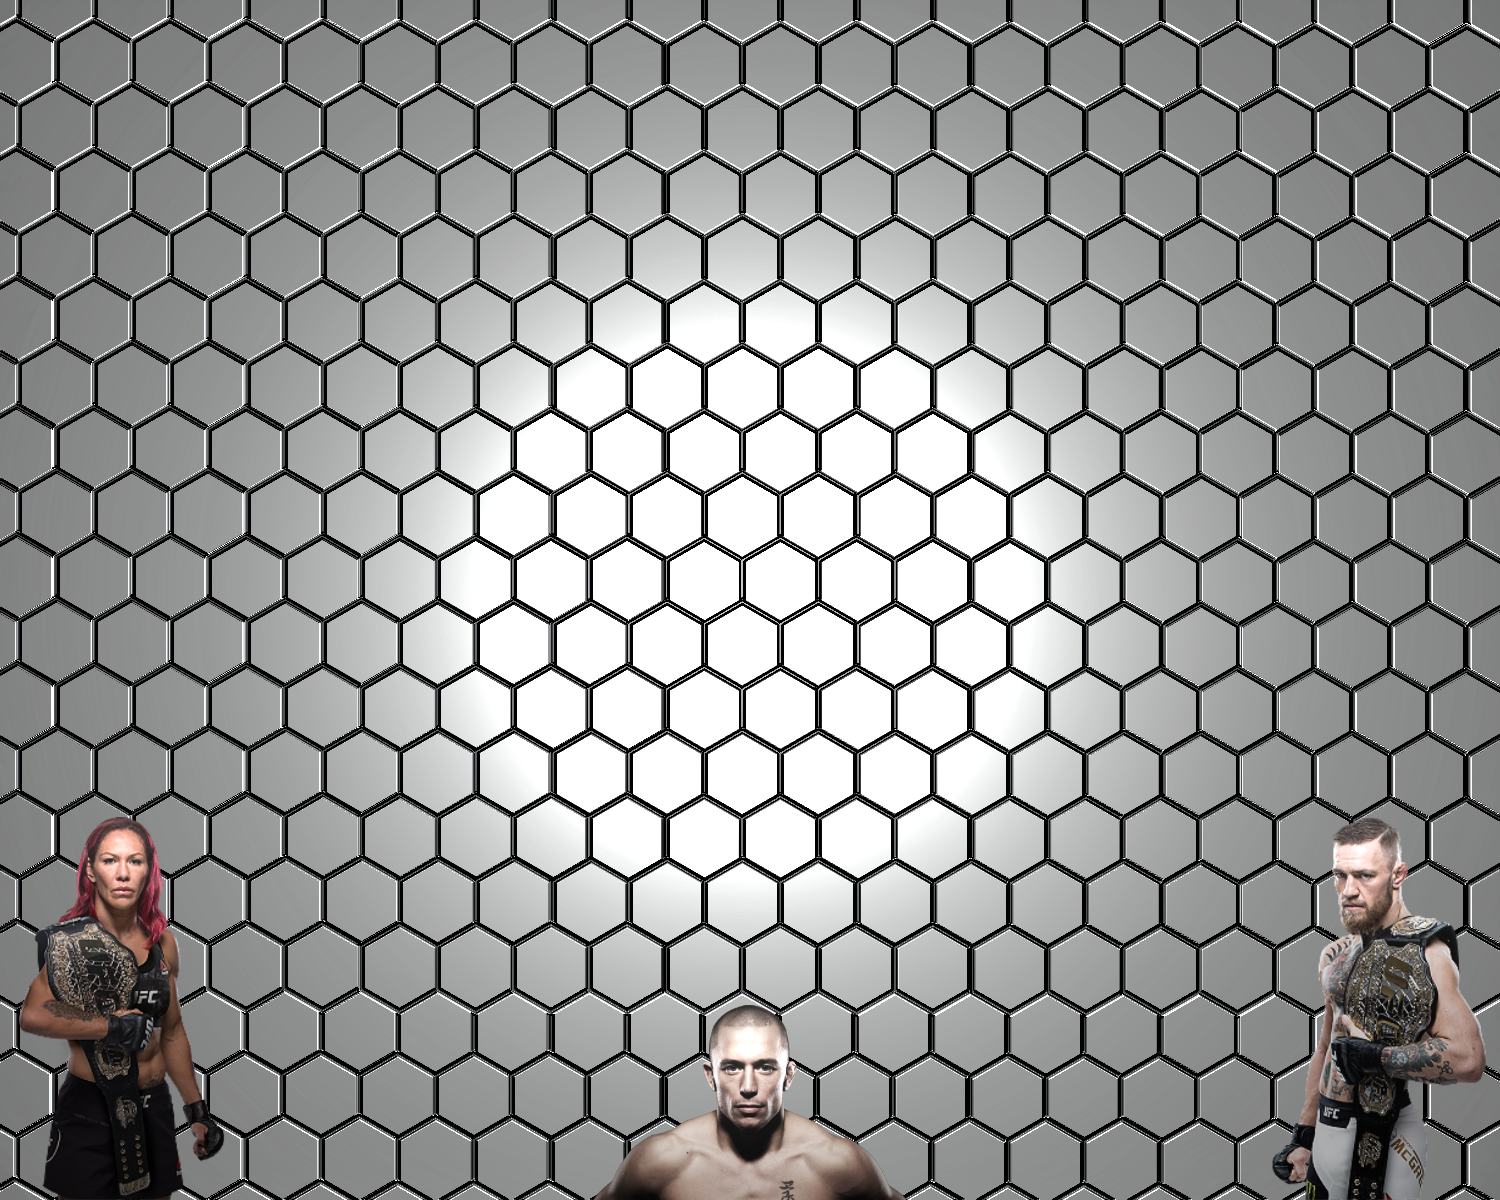
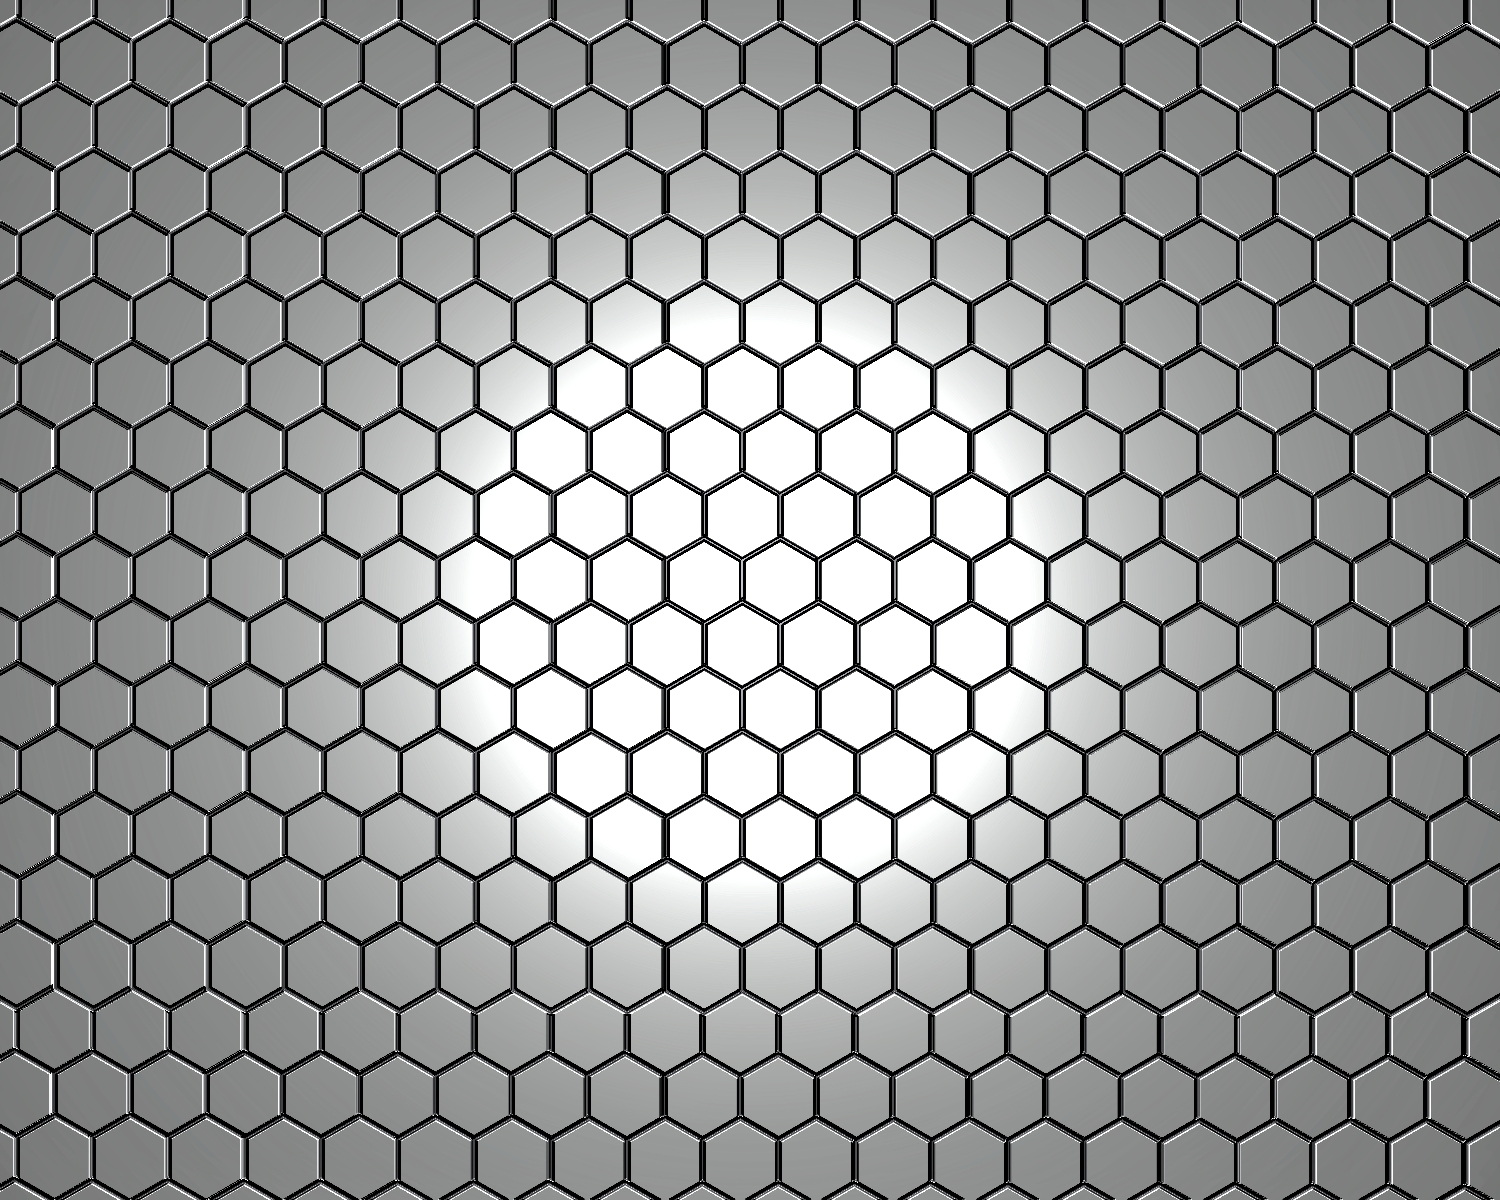
Changed UI on main page

Changed region(s): [[0.0, 0.6783, 0.1533, 1.0], [0.828, 0.6783, 1.0, 1.0], [0.3987, 0.8325, 0.6133, 1.0]]

diff --git a/src/containers/Home/Home.js b/src/containers/Home/Home.js
@@ -2,6 +2,8 @@ import React, { Component } from 'react';
 import { Button } from 'semantic-ui-react';
 import classes from './Home.scss';
 
+import logo from '../../assets/imgs/mcgregor-cutout.png';
+
 import GameMode from '../../components/GameMode/GameMode'
 import AuxComponent from '../../hocs/AuxComponent';
 
@@ -11,9 +13,15 @@ class Home extends Component {
             <AuxComponent>
                 <div className={classes.Home}>
                     <h1>Select Game Mode</h1>
-                    <GameMode gameMode="Classic" history={this.props.history} />
-                    <GameMode gameMode="Timed" history={this.props.history} />
-                    <GameMode gameMode="Survival" history={this.props.history} />
+                    <div className={classes.Btn_group}>
+                            <GameMode gameMode="Classic" history={this.props.history} />
+                       
+                            <GameMode gameMode="Timed" history={this.props.history} />
+                   
+                            <GameMode gameMode="Survival" history={this.props.history} />
+    
+                    </div>
+                    <img className={classes.Mcgregor}src={logo} alt="mcgregor" />
                 </div>
             </AuxComponent>
         )

diff --git a/src/components/Checkbox/Checkbox.js b/src/components/Checkbox/Checkbox.js
@@ -1,0 +1,44 @@
+import React, { Component, PropTypes } from 'react';
+import game from '../../state/game';
+import classes from './Checkbox.scss';
+
+class Checkbox extends Component {
+    state={
+        isChecked: false,
+    }
+
+    toggleCheckbox = () => {
+        const { handleCheckboxChange } = this.props;
+
+        this.setState(({ isChecked }) => ({
+            isChecked: !isChecked
+        }));
+
+        // handleCheckboxChange();
+    }
+    render() {
+        const weightclasses = [...game.weightclasses];
+        // const {label} = 
+        const { isChecked } = this.state;
+
+        return (
+            <div className={classes.Checkbox}>
+                <label>
+                    <input
+                    type="checkbox"
+                    // value={}
+                    checked={isChecked}
+                    onChange={this.toggleCheckbox}/>
+                    
+                </label>
+            </div>
+        )
+    }
+}
+
+// Checkbox.propTypes = {
+//     label: PropTypes.string.isRequired,
+//     handleCheckboxChange: PropTypes.func.isRequired
+// }
+
+export default Checkbox;

diff --git a/src/containers/Home/Home.scss b/src/containers/Home/Home.scss
@@ -1,15 +1,36 @@
 .Home{
-    background: rgba(255,255,255,0.9);
-    border-radius: 5px;
+    // background: rgba(255,255,255,0.9);
     width: 30%;
-    margin: auto;
+    color: white;
+    text-shadow: -1px 0 black, 0 1px black, 1px 0 black, 0 -1px black;
+    // margin: auto;
     display: block;
     padding: 20px;
     h1, button {
         font-family: 'Oswald', sans-serif !important;
     }
     button {
-        width: 80%;
-        margin-bottom: 20px !important;
+        width: 150%;
+        color: white;
+        font-weight: bolder;
+        padding: 0 50px;
+        font-size: 1.5em;
+        height: 75px;
+        position: relative;
+        background-color: transparent !important;
+        margin-bottom: 60px !important;
+        &:focus {
+            outline:0;
+        }
     }
+}
+.Btn_group{
+    margin-left: -20px;
+}
+.Mcgregor{
+    position: fixed;
+    top: 10px;
+    right: 30px;
+    width: 60%;
+    opacity: 1.0;
 }

diff --git a/src/components/GameMode/GameMode.js b/src/components/GameMode/GameMode.js
@@ -1,5 +1,6 @@
 import React from 'react';
 import { Button } from 'semantic-ui-react';
+import classes from './GameMode.scss';
 import game from '../../state/game';
 
 export default class GameMode extends React.Component {
@@ -25,7 +26,9 @@ export default class GameMode extends React.Component {
     render() {
         return (
             <div>
-                <Button color="red" size="massive">{this.props.gameMode}</Button>
+                <button className={classes.Btn_bg}>
+                    <div className={classes.Btn_txt}>{this.props.gameMode}</div>                    
+                </button>
                 { /* 
                     Accordion with list of checkboxes. Each checkboxes
                     should have an onChange={this.handleSelect.bind(this, weightclass)}

diff --git a/public/index.html b/public/index.html
@@ -11,7 +11,7 @@
     <link rel="manifest" href="%PUBLIC_URL%/manifest.json">
     <link rel="shortcut icon" href="%PUBLIC_URL%/favicon.ico">
     <link href="https://fonts.googleapis.com/css?family=Racing+Sans+One" rel="stylesheet">
-    <link rel="stylesheet" href="//cdnjs.cloudflare.com/ajax/libs/semantic-ui/2.2.12/semantic.min.css"></link>
+    <!-- <link rel="stylesheet" href="//cdnjs.cloudflare.com/ajax/libs/semantic-ui/2.2.12/semantic.min.css"></link> -->
     <!--
       Notice the use of %PUBLIC_URL% in the tags above.
       It will be replaced with the URL of the `public` folder during the build.

diff --git a/src/components/GameMode/GameMode.scss b/src/components/GameMode/GameMode.scss
@@ -1,0 +1,11 @@
+.Btn_bg{
+    width: 100%;
+    // position: relative;
+    border-style: solid;
+    border-color: red transparent transparent transparent !important;
+    border-width: 75px 75px 0 0 !important;
+
+}
+.Btn_txt{
+    margin-top: -55px;
+}
